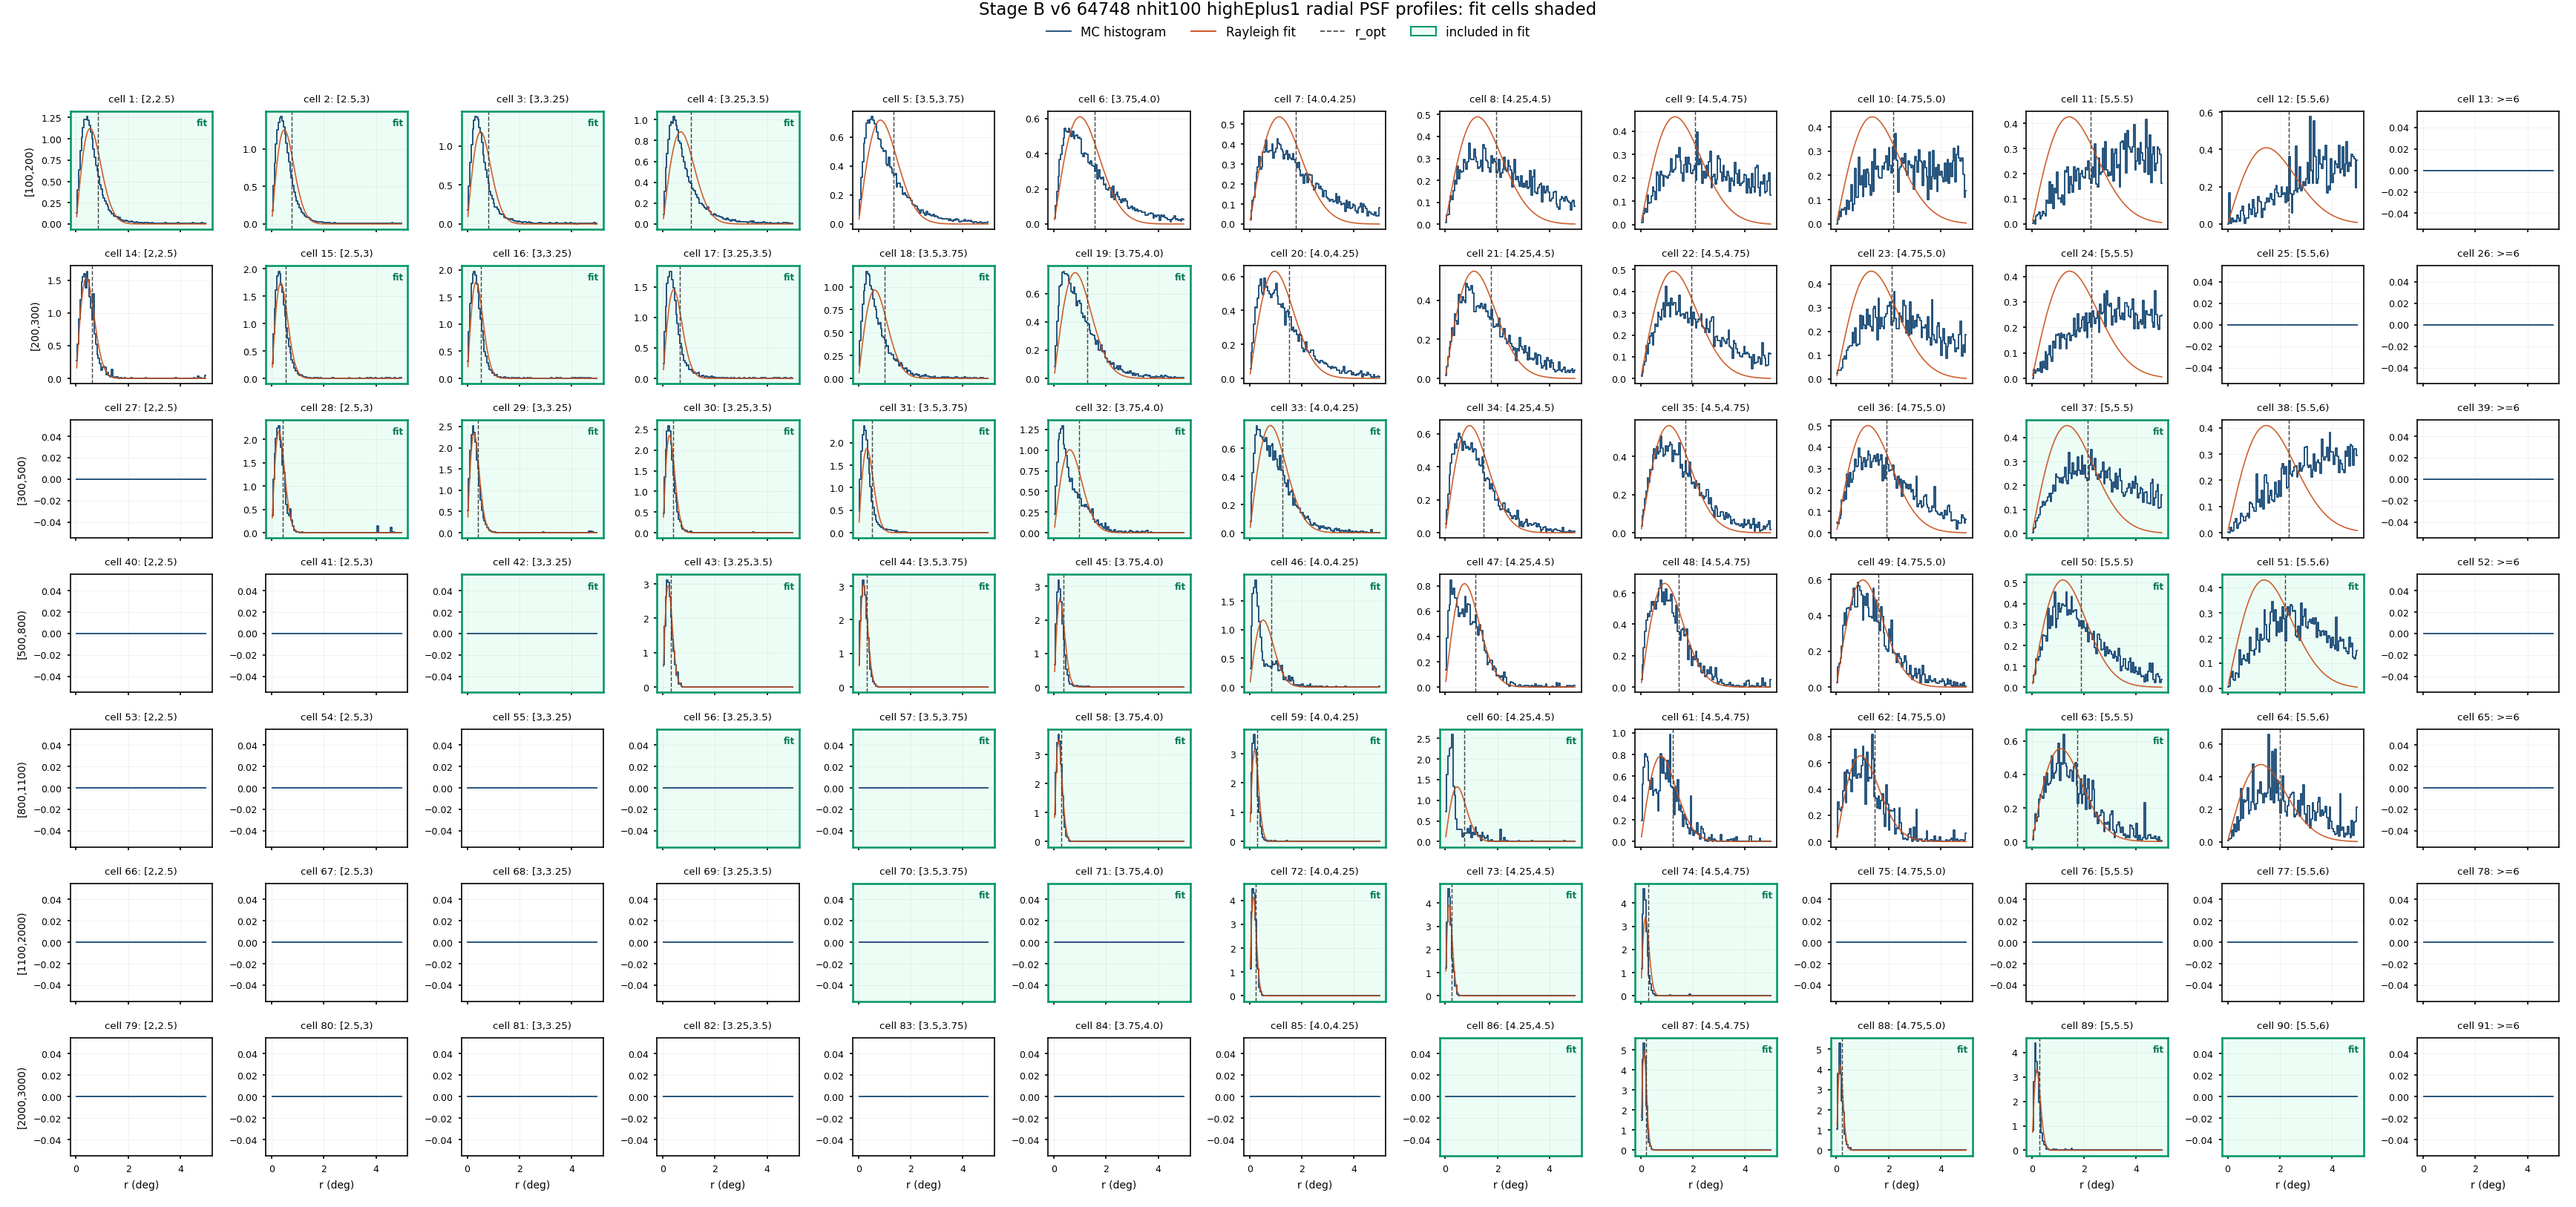
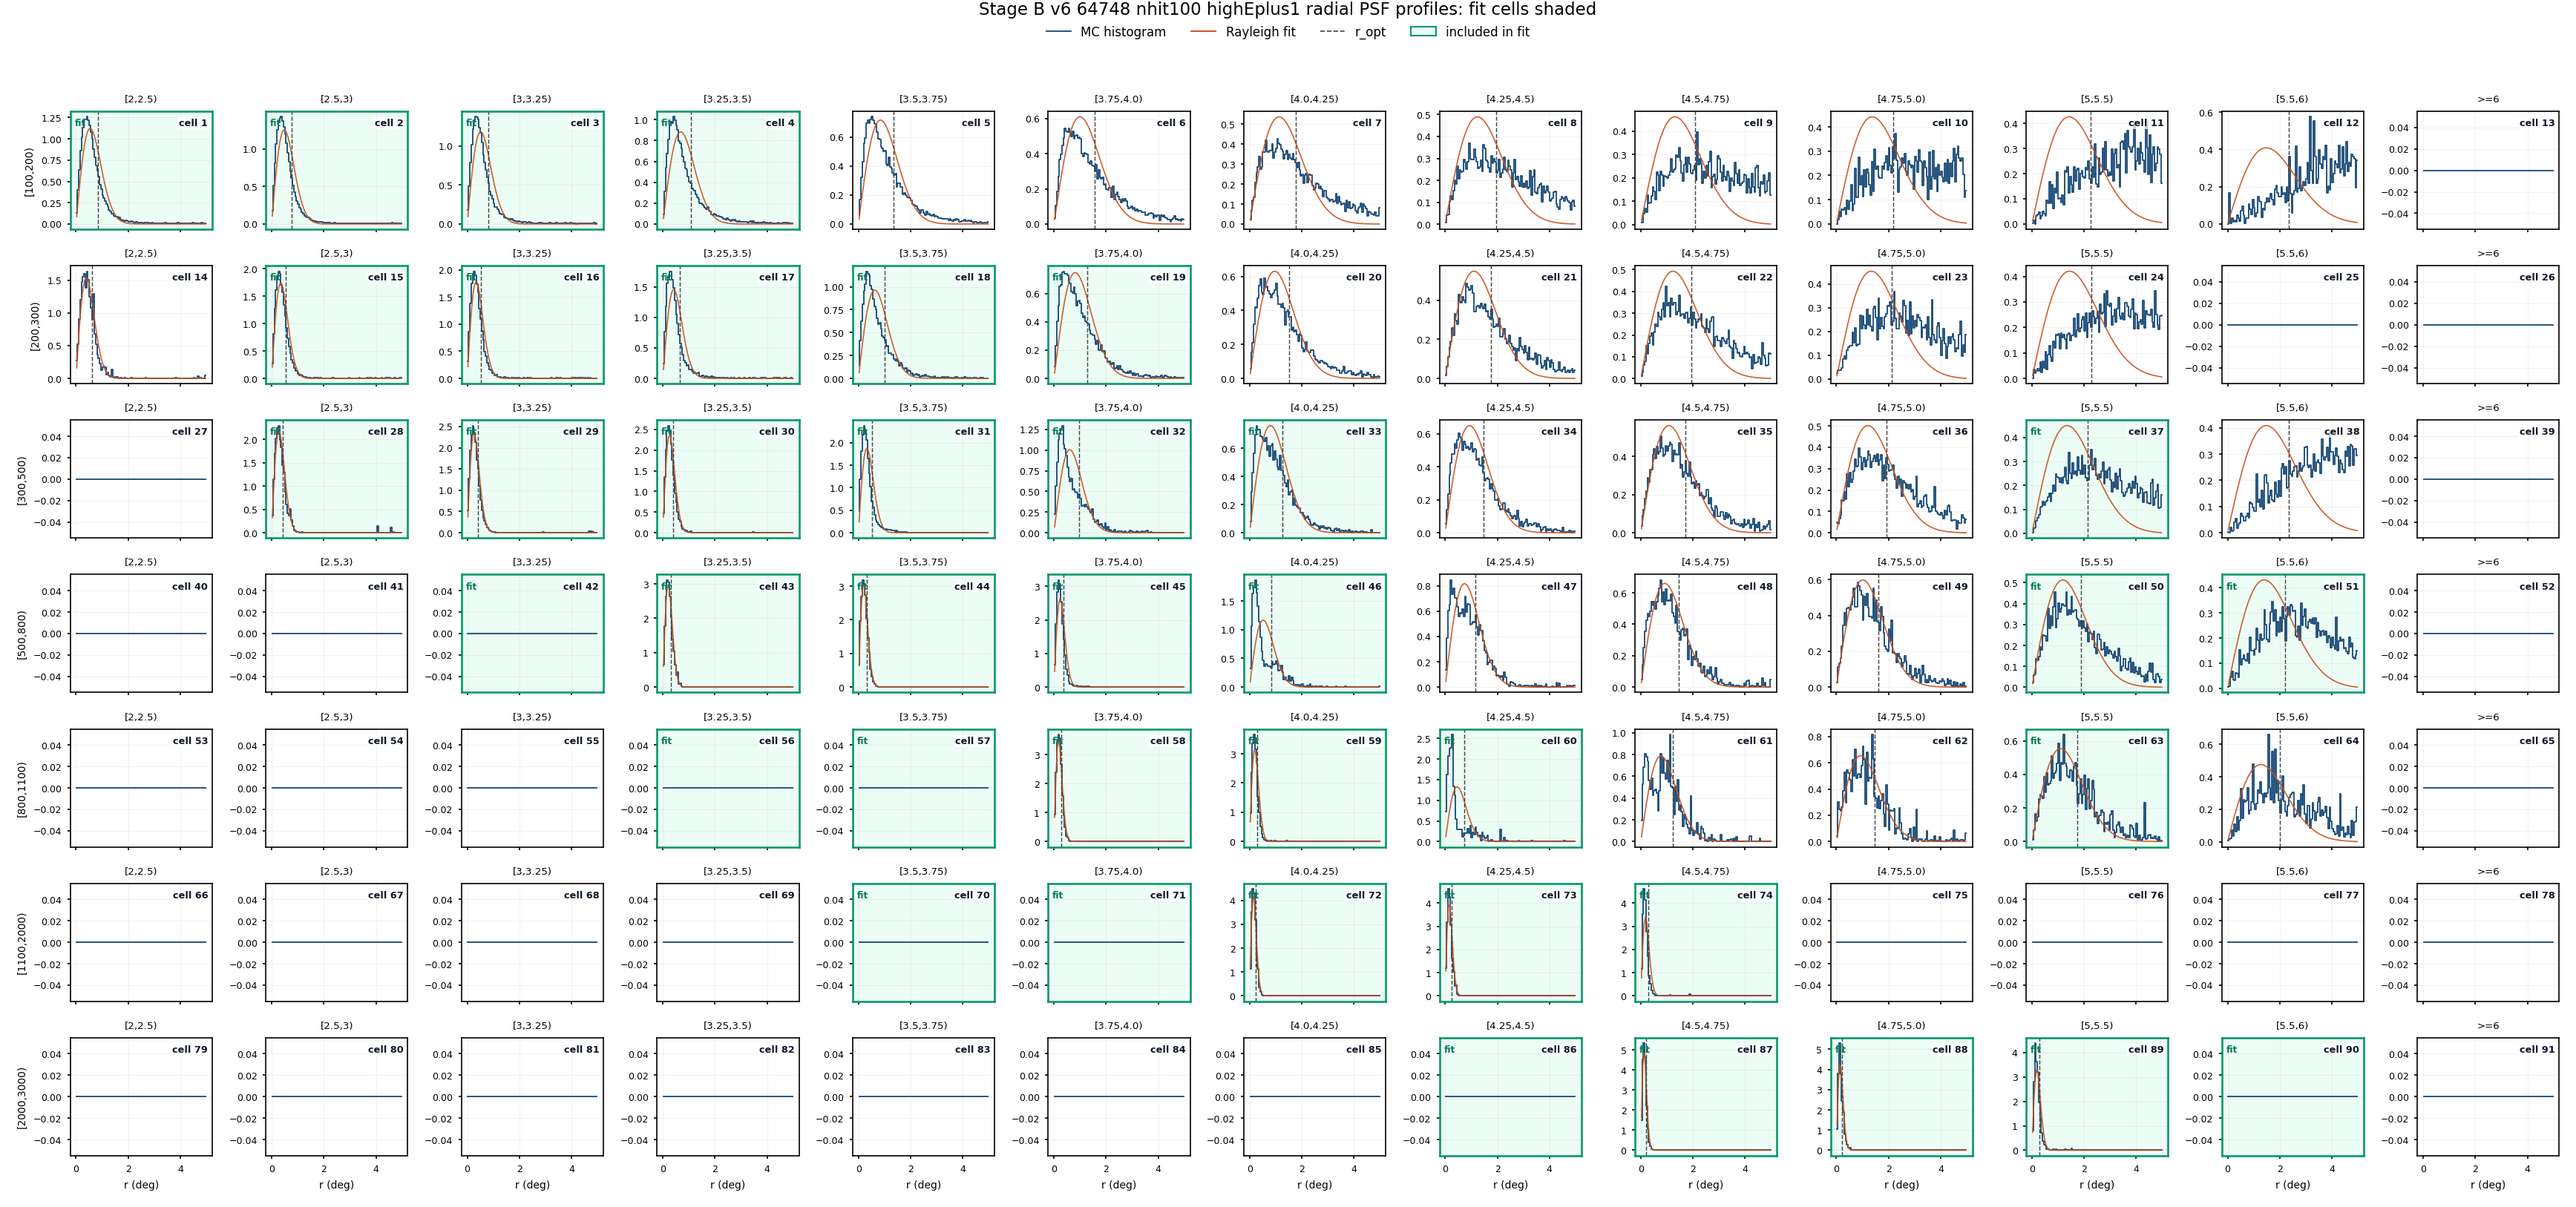
Label v6 64748 PSF cells

diff --git a/apply/report/build_v6_64748_nhit100_highEplus1_report.py b/apply/report/build_v6_64748_nhit100_highEplus1_report.py
@@ -185,7 +185,7 @@ def ensure_stage_b_fit_shaded_profile_grid(fit_ids: set[int]) -> None:
     psf_path = STAGE_B / f"psf_{RUN_ID}.npz"
     if not psf_path.exists():
         return
-    source_mtime = max(psf_path.stat().st_mtime, FIT_SELECTOR.stat().st_mtime)
+    source_mtime = max(psf_path.stat().st_mtime, FIT_SELECTOR.stat().st_mtime, Path(__file__).stat().st_mtime)
     if STAGE_B_FIT_SHADED_PROFILE.exists() and STAGE_B_FIT_SHADED_PROFILE.stat().st_mtime >= source_mtime:
         return
 
@@ -233,16 +233,28 @@ def ensure_stage_b_fit_shaded_profile_grid(fit_ids: set[int]) -> None:
                     spine.set_color("#059669")
                     spine.set_linewidth(1.25)
                 ax.text(
-                    0.97,
+                    0.03,
                     0.94,
                     "fit",
                     transform=ax.transAxes,
-                    ha="right",
+                    ha="left",
                     va="top",
                     fontsize=5.8,
                     color="#047857",
                     fontweight="bold",
                 )
+            ax.text(
+                0.97,
+                0.94,
+                f"cell {cell_id}",
+                transform=ax.transAxes,
+                ha="right",
+                va="top",
+                fontsize=6.2,
+                color="#0f172a",
+                fontweight="bold",
+                bbox={"facecolor": "white", "edgecolor": "none", "alpha": 0.72, "pad": 0.7},
+            )
 
             density = profile_density[idx]
             ax.step(centers, density, where="mid", color="#1f4e79", linewidth=0.9)
@@ -252,7 +264,7 @@ def ensure_stage_b_fit_shaded_profile_grid(fit_ids: set[int]) -> None:
                 if idx < r_opt_deg.size and np.isfinite(r_opt_deg[idx]):
                     ax.axvline(float(r_opt_deg[idx]), color="#444444", linewidth=0.7, linestyle="--")
 
-            ax.set_title(f"cell {cell_id}: {pred}", fontsize=6.4)
+            ax.set_title(pred, fontsize=6.4)
             ax.tick_params(labelsize=6, length=2)
             ax.grid(alpha=0.22, linewidth=0.35)
             if j == 0:

diff --git a/apply/devlog.md b/apply/devlog.md
@@ -6,6 +6,8 @@ Detailed design rationale belongs in `report/` or `docs/`. Authoritative history
 
 ---
 
+- **energy** · 2026-07-10 13:50 · [uncommitted] Add per-panel cell-number labels to the v6 64748 Stage B radial PSF grid.
+
 - **energy** · 2026-07-10 13:43 · [uncommitted] Rebuild the v6 64748 report with fit-cell shaded PSF profiles and an external-reference SED overlay.
 
 - **energy** · 2026-07-09 23:50 · [uncommitted] Complete the v6 `_64748` nhit100 highEplus1 Stage A-G Slurm chain, selectors, validation, and final report.
